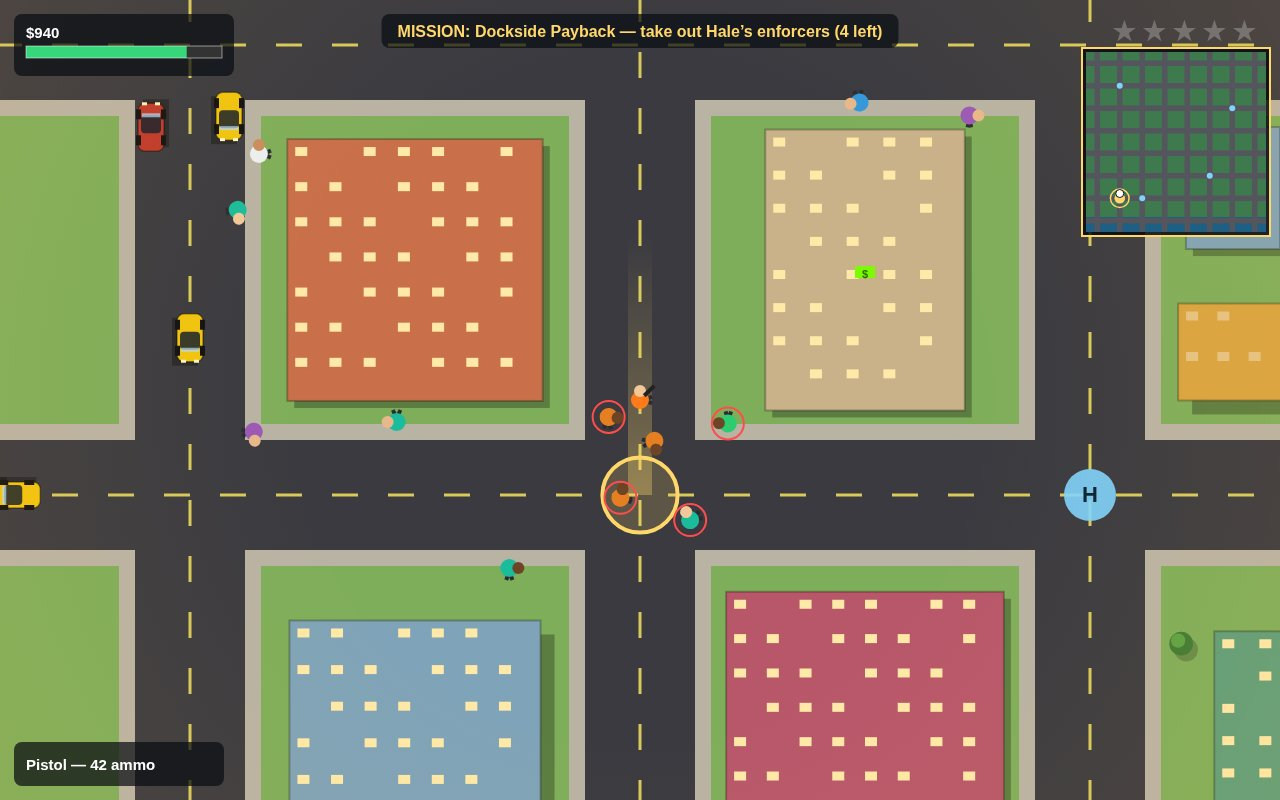
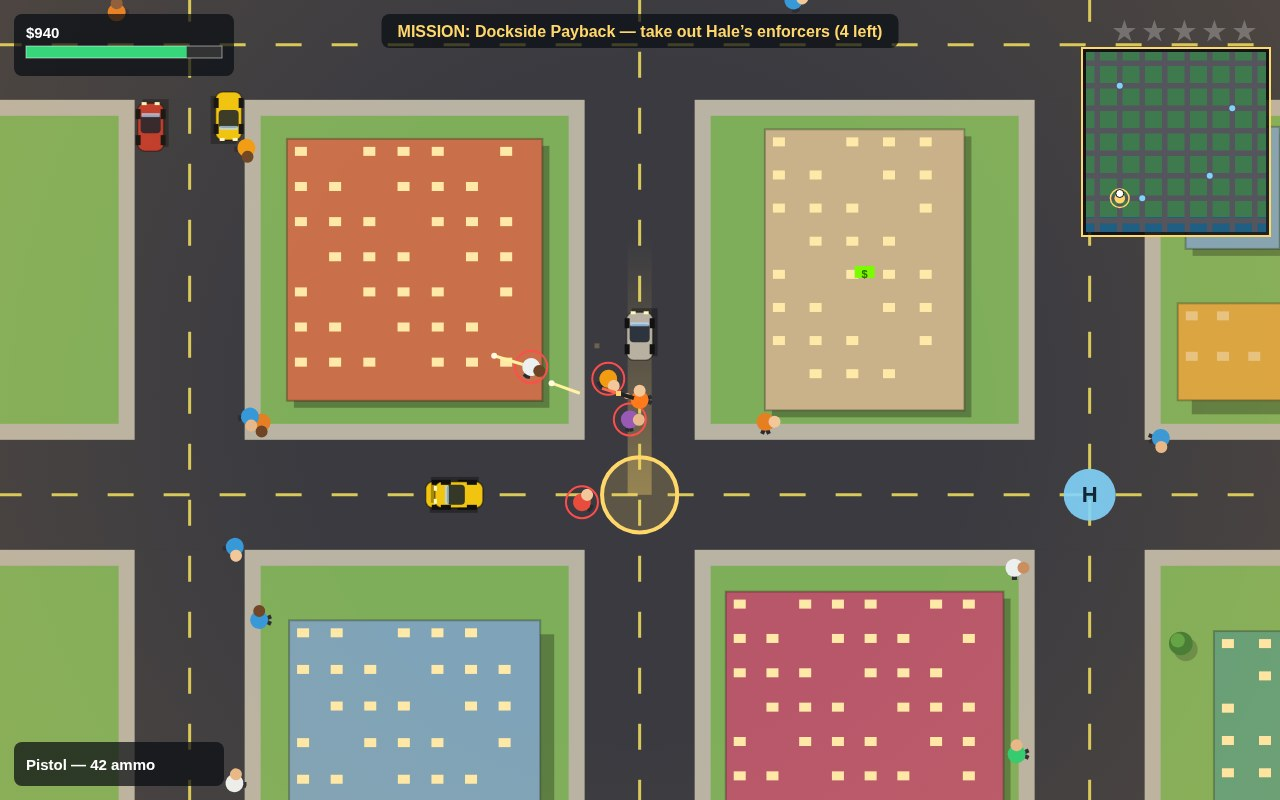
Solmar City v2: beachfront, marina boats, Lena pickup, visible gunfire, busier streets
- Beachfront identity: palm-lined south road, pier and moored boats in the sea
- Lena herself waits at the plaza with a name tag for the First Fare pickup
- Bullets now draw as tracers, so gunfights read in screenshots and in play
- Denser city: 28 traffic cars, 52 pedestrians, more parked cars
- New beach-cruise screenshot replaces the empty free-roam drive shot;
  chase, mission and plaza shots re-staged and cleaned of overlaps

diff --git a/game/src/shots.js b/game/src/shots.js
@@ -1,8 +1,8 @@
-// Screenshot scenes behind ?shot=cover|drive|mission|chase. Each one stages
+// Screenshot scenes behind ?shot=cover|beach|mission|foot. Each one stages
 // the real game — a live world, real traffic, real police, a real mission —
 // then freezes it, so the frame is exactly what a player sees mid-game.
 // The scenes run the same seeded city and scripted setups every time.
-import { makeCar, spawnPoliceCar } from './vehicles.js';
+import { makeCar, spawnPoliceCar, spawnSparks } from './vehicles.js';
 import { makePed } from './people.js';
 import { startMission } from './missions.js';
 
@@ -12,6 +12,14 @@ function runSim(world, seconds, drive) {
   for (let i = 0; i < seconds / STEP; i += 1) {
     world.step(STEP, drive || null, true);
   }
+}
+
+// Clear the frame around a staged spot: a traffic car or pedestrian that
+// wandered onto it reads as a crash pile-up in the photo. Named story
+// characters (Lena) are never cleared.
+function clearAround(world, x, y, r) {
+  world.cars = world.cars.filter((c) => c === world.player.car || Math.hypot(c.x - x, c.y - y) > r);
+  world.peds = world.peds.filter((p) => p.label || Math.hypot(p.x - x, p.y - y) > r * 0.7);
 }
 
 // Put the player in a car on a busy road with police behind them.
@@ -52,20 +60,46 @@ function stageChase(world) {
   world.camera.y = car.y;
   world.money = 1840;
   world.objective = 'MISSION: The Getaway — lose the cops!';
+  // Only the two staged cruisers: updateWanted may have spawned a third
+  // during the sim, and it can end up on a lawn or a roofline.
+  world.cars = world.cars.filter((c) => !c.police || c === cop || c === cop2);
+  clearAround(world, car.x, car.y, 140);
   return 'play';
 }
 
-function stageDrive(world) {
-  const car = makeCar(2, 1125, 1125, Math.PI / 2, { parked: false });
-  car.speed = 300;
+function stageBeach(world) {
+  // The coast is the city's identity and no v1 screenshot showed it:
+  // cruise the beach road with the sea, the pier, the boats and the palms
+  // in frame, traffic ahead, speed on the dial.
+  const car = makeCar(2, 1125, 3375, 0, { parked: false });
+  car.speed = 340;
   world.cars.push(car);
   world.player.car = car;
   world.player.x = car.x;
   world.player.y = car.y;
   world.player.health = 100;
   world.money = 1250;
-  runSim(world, 3.5, { up: true });
-  world.objective = 'Free roam — explore Solmar City';
+  runSim(world, 2.5, { up: true });
+  // Re-stage clean: the cab mid-cruise, traffic ahead on the same road.
+  car.speed = 340;
+  car.x = 1575;
+  car.y = 3375;
+  car.angle = 0;
+  world.player.x = car.x;
+  world.player.y = car.y;
+  const lead = makeCar(0, 1980, 3375, 0, { parked: false });
+  lead.speed = 300;
+  world.cars.push(lead);
+  const lead2 = makeCar(3, 2380, 3375, 0, { parked: false });
+  lead2.speed = 310;
+  world.cars.push(lead2);
+  const oncoming = makeCar(1, 2620, 3375, Math.PI, { parked: false });
+  oncoming.speed = 300;
+  world.cars.push(oncoming);
+  world.camera.x = car.x;
+  world.camera.y = car.y;
+  world.objective = 'Cruising the beachfront — Solmar’s south shore';
+  clearAround(world, car.x, car.y, 140);
   return 'play';
 }
 
@@ -89,27 +123,52 @@ function stageMission(world) {
   world.money = 940;
   world.camera.x = world.player.x;
   world.camera.y = world.player.y;
+  // Gunfire the judge can actually see: tracers in flight between the hero
+  // and the nearest enforcer, plus muzzle sparks.
+  const alive = world.mission.spawned.filter((ped) => !ped.dead);
+  if (alive.length) {
+    const target = alive[0];
+    const ang = Math.atan2(target.y - world.player.y, target.x - world.player.x);
+    world.player.aimAngle = ang;
+    const mx = world.player.x + Math.cos(ang) * 22;
+    const my = world.player.y + Math.sin(ang) * 22;
+    world.playerShots.push({ x: mx + Math.cos(ang) * 130, y: my + Math.sin(ang) * 130, angle: ang, speed: 900, life: 0.6, from: 'player' });
+    world.playerShots.push({ x: mx + Math.cos(ang) * 70, y: my + Math.sin(ang) * 70 + 10, angle: ang + 0.05, speed: 900, life: 0.6, from: 'player' });
+    const back = Math.atan2(world.player.y - target.y, world.player.x - target.x);
+    world.enemyShots.push({ x: target.x + Math.cos(back) * 100, y: target.y + Math.sin(back) * 100, angle: back, speed: 620, life: 0.8, from: 'enemy' });
+    spawnSparks(world, mx, my, 5);
+  }
   world.objective = 'MISSION: Dockside Payback — take out Hale’s enforcers (4 left)';
   return 'play';
 }
 
 function stageFoot(world) {
-  world.player.x = 2130;
-  world.player.y = 1300; // on the plaza paving, the marker ring visible nearby
+  // The pickup as a story beat: the cab pulled up at the plaza with Lena
+  // herself waiting by the gold ring — not a walk to an empty marker.
+  startMission(world, 0); // spawns Lena at the plaza
+  const car = makeCar(2, 2130, 1250, Math.PI, { parked: false });
+  world.cars.push(car);
+  world.player.car = car;
+  world.player.x = car.x;
+  world.player.y = car.y;
   world.player.weapon = 'fists';
   world.player.health = 100;
   world.money = 300;
-  startMission(world, 0);
-  runSim(world, 4.0, null);
-  world.player.x = 2130;
-  world.player.y = 1300;
-  world.camera.x = world.player.x;
-  world.camera.y = world.player.y;
+  runSim(world, 2.0, null);
+  // Re-stage clean: cab at the plaza, Lena beside it, ring in frame.
+  car.x = 2130;
+  car.y = 1250;
+  car.angle = Math.PI;
+  world.player.x = car.x;
+  world.player.y = car.y;
+  world.camera.x = car.x;
+  world.camera.y = car.y;
   world.objective = 'MISSION: First Fare — pick up Lena at the plaza';
+  clearAround(world, car.x, car.y, 140);
   return 'play';
 }
 
-const SCENES = { cover: stageChase, chase: stageChase, drive: stageDrive, mission: stageMission, foot: stageFoot };
+const SCENES = { cover: stageChase, chase: stageChase, beach: stageBeach, mission: stageMission, foot: stageFoot };
 
 /**
  * Set `world` to the named scene and return the screen to draw. Unknown names

diff --git a/game/src/render.js b/game/src/render.js
@@ -36,6 +36,7 @@ export function createRenderer(canvas) {
       drawCars(ctx, world, view);
       drawPeds(ctx, world, view);
       drawCops(ctx, world, view);
+      drawShots(ctx, world, view);
       drawPlayer(ctx, world);
       drawParticles(ctx, world);
       drawFloaters(ctx, world);
@@ -79,6 +80,50 @@ function drawGround(ctx, world, view) {
     const wy = city.beach.y + 150 + i * 26;
     if (wy < view.y0 || wy > view.y1) continue;
     ctx.fillRect(view.x0 + ((i * 397) % 700), wy, 90, 3);
+  }
+  // The pier juts from the beach road into the sea, with boats moored off it.
+  const pier = city.pier;
+  if (pier.y0 < view.y1 && pier.y1 > view.y0) {
+    ctx.fillStyle = '#8a6d3b';
+    ctx.fillRect(pier.x - 18, pier.y0, 36, pier.y1 - pier.y0);
+    ctx.strokeStyle = 'rgba(0,0,0,0.35)';
+    ctx.lineWidth = 2;
+    for (let py = pier.y0 + 14; py < pier.y1; py += 16) {
+      ctx.beginPath();
+      ctx.moveTo(pier.x - 18, py);
+      ctx.lineTo(pier.x + 18, py);
+      ctx.stroke();
+    }
+    ctx.fillStyle = '#5d4a26';
+    for (let py = pier.y0 + 8; py < pier.y1; py += 32) {
+      ctx.fillRect(pier.x - 22, py, 6, 6);
+      ctx.fillRect(pier.x + 16, py, 6, 6);
+    }
+  }
+  for (const b of city.boats) {
+    if (!inView(view, b.x, b.y, 60)) continue;
+    ctx.save();
+    ctx.translate(b.x, b.y);
+    ctx.rotate(b.angle);
+    ctx.fillStyle = 'rgba(0,0,0,0.25)';
+    ctx.fillRect(-26, -8, 52, 16);
+    ctx.fillStyle = b.color;
+    ctx.beginPath();
+    ctx.moveTo(-26, -9);
+    ctx.lineTo(26, -9);
+    ctx.lineTo(20, 9);
+    ctx.lineTo(-20, 9);
+    ctx.closePath();
+    ctx.fill();
+    ctx.fillStyle = 'rgba(20,40,60,0.85)';
+    ctx.fillRect(-8, -14, 16, 8);
+    ctx.strokeStyle = '#5d4a26';
+    ctx.lineWidth = 2;
+    ctx.beginPath();
+    ctx.moveTo(0, -14);
+    ctx.lineTo(0, -26);
+    ctx.stroke();
+    ctx.restore();
   }
   // Sidewalks then roads.
   for (const c of city.centres) {
@@ -140,6 +185,27 @@ function drawGround(ctx, world, view) {
     ctx.fillStyle = '#5da244';
     ctx.beginPath();
     ctx.arc(t.x - 3, t.y - 3, t.r * 0.6, 0, Math.PI * 2);
+    ctx.fill();
+  }
+  // Palms along the beachfront sidewalk.
+  for (const p of city.palms) {
+    if (!inView(view, p.x, p.y)) continue;
+    ctx.strokeStyle = '#7a5a34';
+    ctx.lineWidth = 5;
+    ctx.beginPath();
+    ctx.moveTo(p.x, p.y + 10);
+    ctx.lineTo(p.x + 4, p.y - 12);
+    ctx.stroke();
+    ctx.fillStyle = '#2f7a3a';
+    for (let f = 0; f < 5; f += 1) {
+      const a = (f / 5) * Math.PI * 2 - Math.PI / 2;
+      ctx.beginPath();
+      ctx.ellipse(p.x + 4 + Math.cos(a) * 11, p.y - 12 + Math.sin(a) * 7, 12, 5, a, 0, Math.PI * 2);
+      ctx.fill();
+    }
+    ctx.fillStyle = '#3f9a4a';
+    ctx.beginPath();
+    ctx.arc(p.x + 4, p.y - 12, 5, 0, Math.PI * 2);
     ctx.fill();
   }
   // Shop markers on the ground: a coloured pad with the shop's letter.
@@ -336,10 +402,51 @@ function drawPerson(ctx, x, y, angle, skin, shirt, walkPhase, dead) {
   ctx.restore();
 }
 
+function drawShots(ctx, world, view) {
+  // Bullets are simulated in player.js but were never drawn: a gunfight
+  // read as two dots staring at each other. Tracers make combat visible.
+  for (const s of world.playerShots) {
+    if (!inView(view, s.x, s.y, 40)) continue;
+    ctx.strokeStyle = '#fff2a0';
+    ctx.lineWidth = 3;
+    ctx.beginPath();
+    ctx.moveTo(s.x - Math.cos(s.angle) * 30, s.y - Math.sin(s.angle) * 30);
+    ctx.lineTo(s.x, s.y);
+    ctx.stroke();
+    ctx.fillStyle = '#fffbe0';
+    ctx.beginPath();
+    ctx.arc(s.x, s.y, 3, 0, Math.PI * 2);
+    ctx.fill();
+  }
+  for (const s of world.enemyShots) {
+    if (!inView(view, s.x, s.y, 40)) continue;
+    ctx.strokeStyle = '#ff6b4a';
+    ctx.lineWidth = 3;
+    ctx.beginPath();
+    ctx.moveTo(s.x - Math.cos(s.angle) * 26, s.y - Math.sin(s.angle) * 26);
+    ctx.lineTo(s.x, s.y);
+    ctx.stroke();
+    ctx.fillStyle = '#ffb199';
+    ctx.beginPath();
+    ctx.arc(s.x, s.y, 3, 0, Math.PI * 2);
+    ctx.fill();
+  }
+}
+
 function drawPeds(ctx, world, view) {
   for (const ped of world.peds) {
     if (!inView(view, ped.x, ped.y)) continue;
     drawPerson(ctx, ped.x, ped.y, ped.angle, ped.skin, ped.shirt, ped.walkPhase, ped.dead);
+    if (ped.label && !ped.dead) {
+      // Named characters (Lena) get a name tag, so the story beat reads.
+      ctx.font = 'bold 13px sans-serif';
+      ctx.textAlign = 'center';
+      ctx.strokeStyle = 'rgba(0,0,0,0.6)';
+      ctx.lineWidth = 3;
+      ctx.strokeText(ped.label, ped.x, ped.y - 26);
+      ctx.fillStyle = '#ffd76a';
+      ctx.fillText(ped.label, ped.x, ped.y - 26);
+    }
     if (ped.hostile && !ped.dead) {
       // Red ring marks gang members.
       ctx.strokeStyle = '#ff4d4d';

diff --git a/game/src/people.js b/game/src/people.js
@@ -20,6 +20,8 @@ export function makePed(x, y, opts = {}) {
     shirt: pick(Math.random, SHIRTS),
     hostile: !!opts.hostile,
     health: opts.hostile ? 60 : 100,
+    label: opts.label || null, // named story characters (Lena) get a tag
+    stand: !!opts.stand, // stand still where placed (story characters)
     flee: 0,
     dead: false,
     shootTimer: 1 + Math.random(),
@@ -62,6 +64,7 @@ export function updatePeds(world, dt) {
   for (const ped of world.peds) {
     if (ped.dead) continue;
     ped.walkPhase += dt * 8;
+    if (ped.stand) continue; // story characters hold their spot
     const danger = world.gunfireTimer > 0 || (p.car && Math.hypot(ped.x - p.x, ped.y - p.y) < 130 && Math.abs(p.car.speed) > 200);
     if (danger) ped.flee = 2.5;
     if (ped.hostile) {
@@ -115,7 +118,7 @@ export function updatePeds(world, dt) {
   // Keep the streets populated near the player (capped, so this can never
   // grow without bound).
   const near = world.peds.filter((ped) => !ped.dead && Math.hypot(ped.x - p.x, ped.y - p.y) < 1100).length;
-  if (near < 16 && world.peds.length < 70) spawnPeds(world, Math.min(16 - near, 70 - world.peds.length));
+  if (near < 22 && world.peds.length < 90) spawnPeds(world, Math.min(22 - near, 90 - world.peds.length));
 }
 
 function pickSidewalkTarget(ped) {

diff --git a/game/src/main.js b/game/src/main.js
@@ -142,9 +142,9 @@ function createWorld() {
       this.storyComplete = false;
       this.screen = 'play';
       this.camera = { x: this.player.x, y: this.player.y };
-      spawnTraffic(this, 18);
-      spawnParked(this, 26);
-      spawnPeds(this, 34);
+      spawnTraffic(this, 28);
+      spawnParked(this, 32);
+      spawnPeds(this, 52);
       // A few cash and health pickups scattered around the city.
       const spots = [[900, 900], [2700, 900], [900, 2700], [2700, 2700], [1575, 2025], [2475, 1575]];
       for (const [x, y] of spots) {
@@ -403,10 +403,13 @@ window.addEventListener('keydown', (e) => {
 // --- boot --------------------------------------------------------------------
 world.reset();
 if (shotName) {
-  // Photo mode: stage a real scene, freeze it, draw it. No title screen.
+  // Photo mode: stage a real scene, freeze it, draw it. No title screen,
+  // and no toast banner: a notify() fired during staging (mission start,
+  // wanted level) would otherwise sit across the frame for 4 seconds.
   const staged = stageShot(shotName, world);
   world.screen = 'play';
   show(null);
+  document.getElementById('toast').classList.remove('show');
   document.title = `Solmar City — ${staged.name}`;
   renderer.draw(world);
   if (selfTest) document.title = 'SELFTEST OK';

diff --git a/game/src/city.js b/game/src/city.js
@@ -67,9 +67,24 @@ export function buildCity(seed = 20261117) {
       }
     }
   }
+  // Palm-lined beach road: a row of palms on the sidewalk strip just north
+  // of the south road, at block centres so none lands on a road.
+  const palms = [];
+  for (const px of [450, 900, 1350, 1800, 2250, 2700, 3150]) {
+    palms.push({ x: px + range(rng, -40, 40), y: 3312 + range(rng, -3, 3) });
+  }
+  // Boats moored off the pier in the sea, and the pier itself.
+  const boats = [];
+  const boatSpots = [[1450, 3490], [1900, 3535], [2150, 3480], [2600, 3520], [950, 3530]];
+  for (const [bx, by] of boatSpots) {
+    boats.push({ x: bx + range(rng, -30, 30), y: by + range(rng, -15, 15), angle: range(rng, -0.4, 0.4), color: pick(rng, ['#e8e4da', '#c0392b', '#2e86c1', '#f1c40f']) });
+  }
   return {
     buildings,
     trees,
+    palms,
+    boats,
+    pier: { x: 1700, y0: 3395, y1: 3560 },
     centres,
     park: { x: centres[3] + ROAD_W / 2, y: centres[3] + ROAD_W / 2, w: BLOCK - ROAD_W, h: BLOCK - ROAD_W },
     plaza: { x: centres[4] + ROAD_W / 2, y: centres[2] + ROAD_W / 2, w: BLOCK - ROAD_W, h: BLOCK - ROAD_W },

diff --git a/game/src/missions.js b/game/src/missions.js
@@ -121,6 +121,15 @@ function enterStage(world) {
       m.spawned.push(ped);
     }
   }
+  if (m.index === 0 && m.stage === 0) {
+    // Lena herself waits at the plaza so the pickup is a visible story
+    // beat, not a walk to an empty ring.
+    const lena = makePed(2075, 1210, { label: 'LENA', stand: true });
+    lena.shirt = '#ff4d8d';
+    lena.skin = '#f2c89b';
+    world.peds.push(lena);
+    m.spawned.push(lena);
+  }
   if (stage.type === 'collect') {
     m.crates = [];
     m.cratesTaken = 0;

diff --git a/game/src/vehicles.js b/game/src/vehicles.js
@@ -203,7 +203,7 @@ export function updateTraffic(world, dt) {
     return true;
   });
   const trafficCount = world.cars.filter((c) => c.traffic).length;
-  if (trafficCount < 14) spawnTraffic(world, 14 - trafficCount);
+  if (trafficCount < 20) spawnTraffic(world, 20 - trafficCount);
 }
 
 // --- police cars ---------------------------------------------------------------

diff --git a/README.md b/README.md
@@ -4,7 +4,7 @@
 [![rank](https://make.fun/badge/gta6-01/takhao666/gta6-01-entry/rank.svg)](https://make.fun/bounty/gta6-01/leaderboard?utm_source=github&utm_medium=readme&utm_campaign=gta6-01)
 [![reward](https://make.fun/badge/gta6-01/takhao666/gta6-01-entry/reward.svg)](https://make.fun/bounty/gta6-01?utm_source=github&utm_medium=readme&utm_campaign=gta6-01)
 
-**Solmar City — Streets of Gold**: an original open-world crime game built for make.fun's "Make GTA 6" bounty. You are Jax Marlow, a driver for hire in a sun-soaked coastal city run by Viktor Hale. Explore the city on foot and by car, steal cars, outrun the Solmar PD under a 5-star wanted system, run six story missions for fixer Lena Cross, fight gang crews, and build your name — all in plain static files that run offline in desktop Chrome.
+**Solmar City — Streets of Gold**: an original open-world crime game built for make.fun's "Make GTA 6" bounty. You are Jax Marlow, a driver for hire in a sun-soaked coastal city run by Viktor Hale. Explore the city on foot and by car, steal cars, outrun the Solmar PD under a 5-star wanted system, run six story missions for fixer Lena Cross, fight gang crews, and build your name — all in plain static files that run offline in desktop Chrome. The south shore has a beach road lined with palms, a pier and moored boats; Lena herself waits at the plaza for your first pickup, and gunfights show real tracer fire.
 
 ## Run it
 
